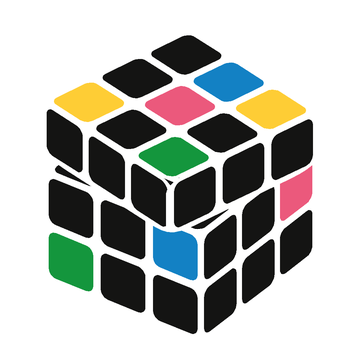
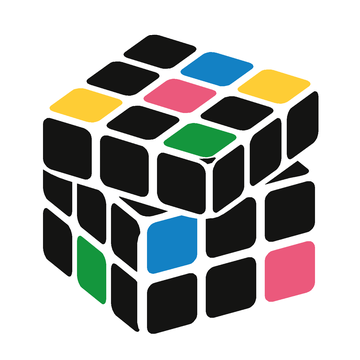
cube animation

Changed region(s): [[0.1222, 0.0917, 0.8861, 0.9472]]

diff --git a/assets/cube-animation.html b/assets/cube-animation.html
@@ -19,10 +19,11 @@
   var K = '#141413', BLUE = '#1381c4', YELLOW = '#fecd35', PINK = '#eb597c', GREEN = '#14963d', GROUT = '#ffffff';
   var TOP = [[K, BLUE, YELLOW], [K, PINK, K], [YELLOW, K, GREEN]];
   var BLACK1 = [[K, K, K]], BLACK2 = [[K, K, K], [K, K, K]], BLACK3 = [[K, K, K], [K, K, K], [K, K, K]];
-  var LOWER = { pz: [[K, K, BLUE], [GREEN, K, K]], px: [[K, K, PINK], [K, K, K]], mx: BLACK2, mz: BLACK2 };
+  var LOWER = { pz: [[K, K, K], [K, GREEN, K]], px: [[BLUE, K, K], [K, K, PINK]], mx: BLACK2, mz: BLACK2 };
   var UPPER = { pz: BLACK1, px: BLACK1, mx: BLACK1, mz: BLACK1 };
 
-  var YAW = -36 * Math.PI / 180, PITCH = 34 * Math.PI / 180, TOP_OFFSET = -13 * Math.PI / 180;
+  // Angles ajustés sur le logo original (assets/Logo cube seul.png)
+  var YAW = -60 * Math.PI / 180, PITCH = 28 * Math.PI / 180, TOP_OFFSET = 27 * Math.PI / 180;
   var TURN_MS = 650, HOLD_MS = 350, REVERSE_SPEED = 1.8;
 
   function rotY(p, a){ var c = Math.cos(a), s = Math.sin(a); return [c*p[0] + s*p[2], p[1], -s*p[0] + c*p[2]]; }
@@ -65,7 +66,7 @@
   }
 
   function draw(ctx, size, zoom, angle){
-    var scale = size * zoom * 64.5 / 360, cx = size / 2, cy = size / 2 + size * 6 / 360;
+    var scale = size * zoom * 68 / 360, cx = size / 2, cy = size / 2 + size * 6 / 360;
     var cp = Math.cos(PITCH), sp = Math.sin(PITCH);
     ctx.clearRect(0, 0, size, size);
     block(-1.5, 0.5, BLACK3, LOWER, 0).concat(block(0.5, 1.5, TOP, UPPER, TOP_OFFSET + angle)).forEach(function(poly){

diff --git a/public/js/main.js b/public/js/main.js
@@ -5,10 +5,11 @@
   var K = '#141413', BLUE = '#1381c4', YELLOW = '#fecd35', PINK = '#eb597c', GREEN = '#14963d', GROUT = '#ffffff';
   var TOP = [[K, BLUE, YELLOW], [K, PINK, K], [YELLOW, K, GREEN]];
   var BLACK1 = [[K, K, K]], BLACK2 = [[K, K, K], [K, K, K]], BLACK3 = [[K, K, K], [K, K, K], [K, K, K]];
-  var LOWER = { pz: [[K, K, BLUE], [GREEN, K, K]], px: [[K, K, PINK], [K, K, K]], mx: BLACK2, mz: BLACK2 };
+  var LOWER = { pz: [[K, K, K], [K, GREEN, K]], px: [[BLUE, K, K], [K, K, PINK]], mx: BLACK2, mz: BLACK2 };
   var UPPER = { pz: BLACK1, px: BLACK1, mx: BLACK1, mz: BLACK1 };
 
-  var YAW = -36 * Math.PI / 180, PITCH = 34 * Math.PI / 180, TOP_OFFSET = -13 * Math.PI / 180;
+  // Angles ajustés sur le logo original (assets/Logo cube seul.png)
+  var YAW = -60 * Math.PI / 180, PITCH = 28 * Math.PI / 180, TOP_OFFSET = 27 * Math.PI / 180;
   var TURN_MS = 650, HOLD_MS = 350, REVERSE_SPEED = 1.8;
 
   function rotY(p, a){ var c = Math.cos(a), s = Math.sin(a); return [c*p[0] + s*p[2], p[1], -s*p[0] + c*p[2]]; }
@@ -51,7 +52,7 @@
   }
 
   function draw(ctx, size, zoom, angle){
-    var scale = size * zoom * 64.5 / 360, cx = size / 2, cy = size / 2 + size * 6 / 360;
+    var scale = size * zoom * 68 / 360, cx = size / 2, cy = size / 2 + size * 6 / 360;
     var cp = Math.cos(PITCH), sp = Math.sin(PITCH);
     ctx.clearRect(0, 0, size, size);
     block(-1.5, 0.5, BLACK3, LOWER, 0).concat(block(0.5, 1.5, TOP, UPPER, TOP_OFFSET + angle)).forEach(function(poly){
